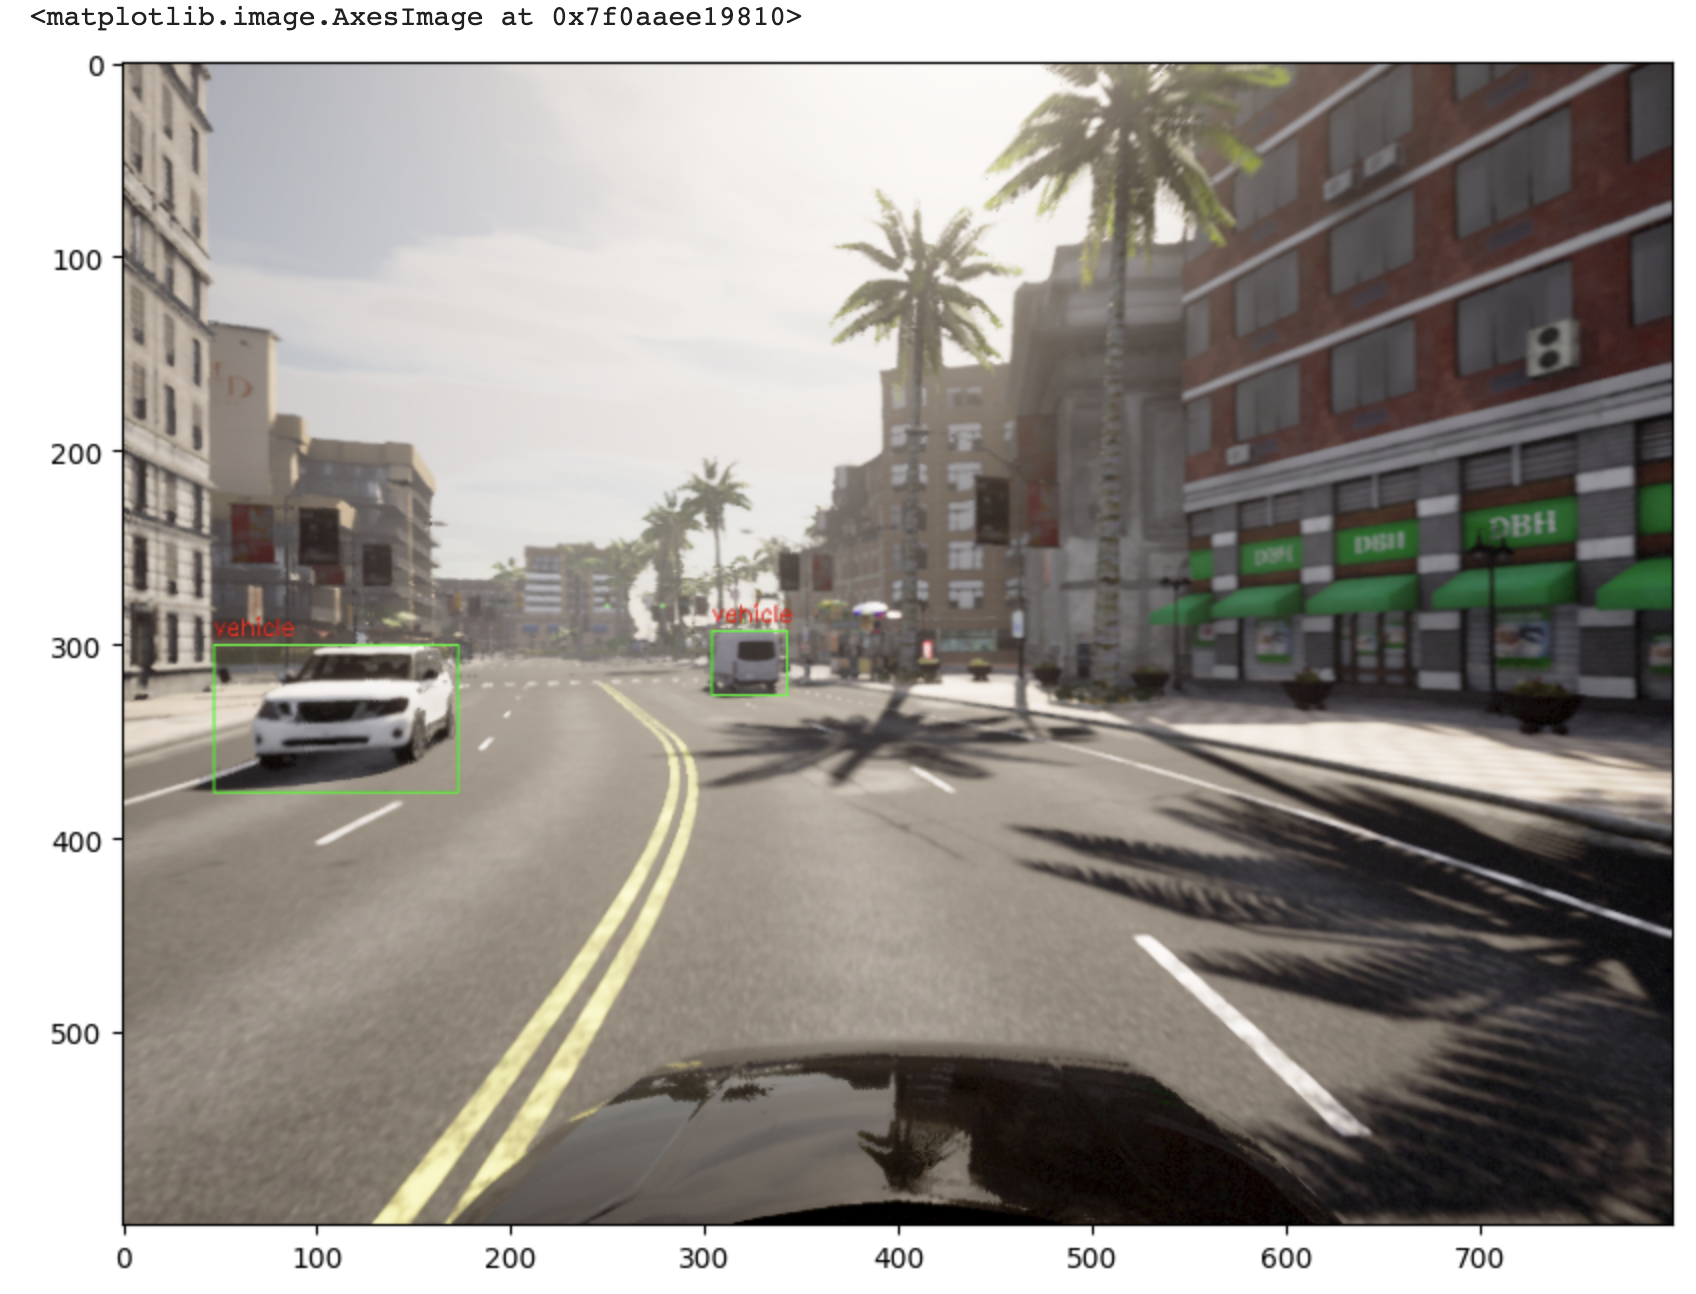
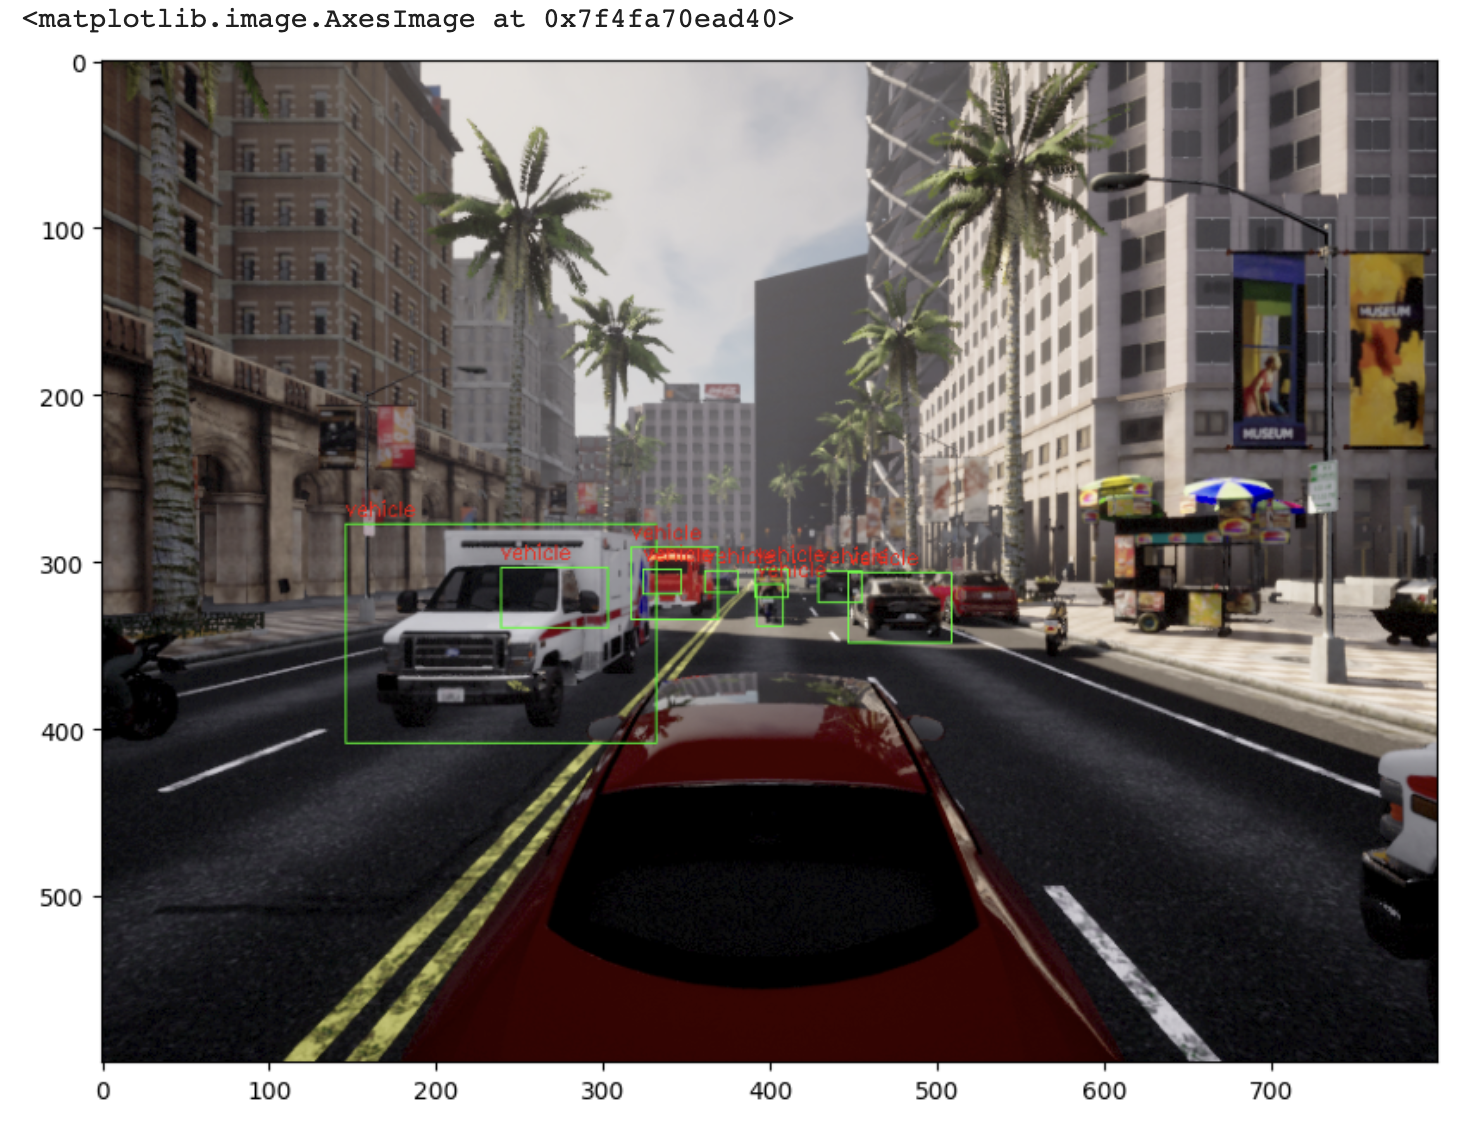
내용 수정

diff --git a/_posts/Carla_Simulator/2023-06-20-Carla-2D-Bounding-Box.md b/_posts/Carla_Simulator/2023-06-20-Carla-2D-Bounding-Box.md
@@ -303,13 +303,13 @@ from pascal_voc_writer import Writer
 
 ### 2.3. 데이터셋 확인
 주변 차량의 이미지와 그에 해당하는 Pascal VOC 정답지 데이터입니다.  
-<img src="../../assets/images/Carla_Simulator/000491.png" width="640" height="480">  
+<img src="../../assets/images/Carla_Simulator/000924.png" width="640" height="480">  
 
 ```xml
 <annotation>
     <folder>output</folder>
-    <filename>000491.png</filename>
-    <path>/home/jswoo/Desktop/Carla_Jupyter/Final/output/000491.png</path>
+    <filename>000924.png</filename>
+    <path>/home/siruu/Desktop/Carla_Bounding/output/000924.png</path>
     <source>
         <database>Unknown</database>
     </source>
@@ -325,13 +325,102 @@ from pascal_voc_writer import Writer
         <truncated>0</truncated>
         <difficult>0</difficult>
         <bndbox>
-            <xmin>389.568653147</xmin>
-            <ymin>309.145733235</ymin>
-            <xmax>410.76510081</xmax>
-            <ymax>323.099127881</ymax>
+            <xmin>428.35741312432765</xmin>
+            <ymin>305.35886370602424</ymin>
+            <xmax>454.0003911394082</xmax>
+            <ymax>324.0241356693074</ymax>
+        </bndbox>
+    </object>    <object>
+        <name>vehicle</name>
+        <pose>Unspecified</pose>
+        <truncated>0</truncated>
+        <difficult>0</difficult>
+        <bndbox>
+            <xmin>145.43633313850287</xmin>
+            <ymin>277.0884879805964</ymin>
+            <xmax>331.54931164497924</xmax>
+            <ymax>408.89008555307777</ymax>
+        </bndbox>
+    </object>    <object>
+        <name>vehicle</name>
+        <pose>Unspecified</pose>
+        <truncated>0</truncated>
+        <difficult>0</difficult>
+        <bndbox>
+            <xmin>360.3600275150855</xmin>
+            <ymin>305.7754281122021</ymin>
+            <xmax>380.07320393419855</xmax>
+            <ymax>318.19738007928294</ymax>
+        </bndbox>
+    </object>    <object>
+        <name>vehicle</name>
+        <pose>Unspecified</pose>
+        <truncated>0</truncated>
+        <difficult>0</difficult>
+        <bndbox>
+            <xmin>390.9933382633762</xmin>
+            <ymin>304.0722657735785</ymin>
+            <xmax>410.7567231455684</xmax>
+            <ymax>321.96378359741686</ymax>
+        </bndbox>
+    </object>    <object>
+        <name>vehicle</name>
+        <pose>Unspecified</pose>
+        <truncated>0</truncated>
+        <difficult>0</difficult>
+        <bndbox>
+            <xmin>446.32691995327923</xmin>
+            <ymin>306.7503342986136</ymin>
+            <xmax>508.42193038179175</xmax>
+            <ymax>348.92981872223675</ymax>
+        </bndbox>
+    </object>    <object>
+        <name>vehicle</name>
+        <pose>Unspecified</pose>
+        <truncated>0</truncated>
+        <difficult>0</difficult>
+        <bndbox>
+            <xmin>391.01638762216476</xmin>
+            <ymin>313.49717923464823</ymin>
+            <xmax>407.6952483198185</xmax>
+            <ymax>338.9526359276562</ymax>
+        </bndbox>
+    </object>    <object>
+        <name>vehicle</name>
+        <pose>Unspecified</pose>
+        <truncated>0</truncated>
+        <difficult>0</difficult>
+        <bndbox>
+            <xmin>323.9441082317002</xmin>
+            <ymin>304.3498678219165</ymin>
+            <xmax>346.84786221619413</xmax>
+            <ymax>319.310110633452</ymax>
+        </bndbox>
+    </object>    <object>
+        <name>vehicle</name>
+        <pose>Unspecified</pose>
+        <truncated>0</truncated>
+        <difficult>0</difficult>
+        <bndbox>
+            <xmin>316.263692768674</xmin>
+            <ymin>291.9248247914944</ymin>
+            <xmax>368.62311047154213</xmax>
+            <ymax>334.5751971496285</ymax>
+        </bndbox>
+    </object>    <object>
+        <name>vehicle</name>
+        <pose>Unspecified</pose>
+        <truncated>0</truncated>
+        <difficult>0</difficult>
+        <bndbox>
+            <xmin>238.43868577616968</xmin>
+            <ymin>303.6270820799055</ymin>
+            <xmax>302.4953959698112</xmax>
+            <ymax>339.8072967591419</ymax>
         </bndbox>
     </object>
 </annotation>
+
 ```
 
 ## 2.4. 전체 코드
